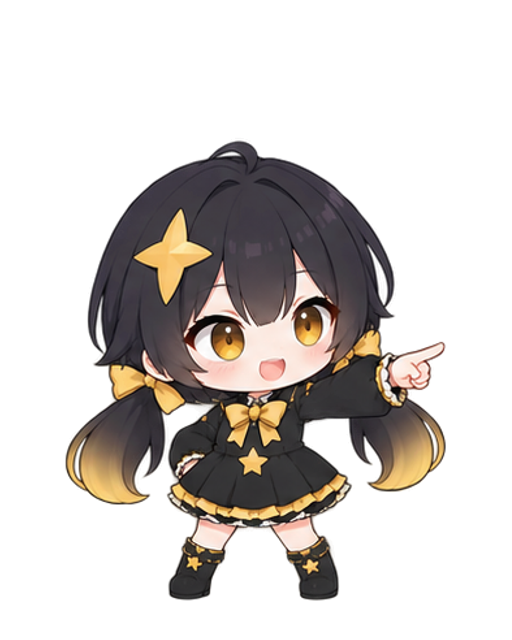
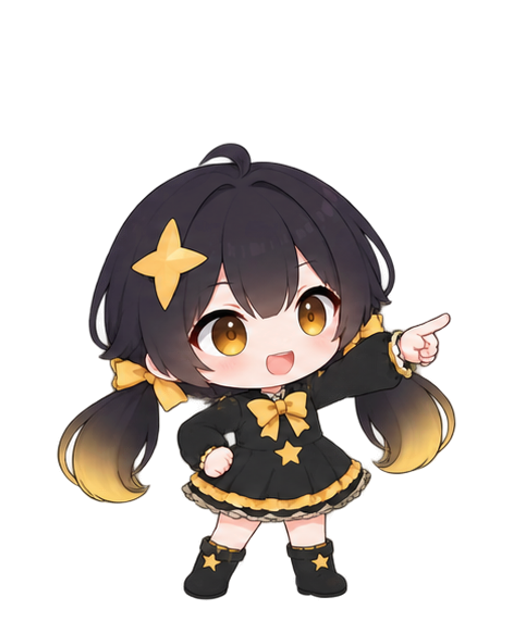
[claude] Star mascot: fix sheet 3 replaces the land, run-1, run-2 and point drawings
Replaced from the third redraw sheet: land (rounded fists instead of claw-like finger outlines), run-1 and run-2 (two tails instead of three pigtails, clean fists), point (both hands drawn and crisp). Kept: wave-a, wave-b, jump, think (the new versions have soft or smudged hand edges or no clear gain); the new 'cheer' drawing is not added. Same canvas rules (512 x 640, lowest pixel on y = 600); every other asset is byte-identical. Manifest, ASSETS.md and tests/test_mascot_assets.py updated: nothing is pending replacement any more.

Changed region(s): [[0.0938, 0.2812, 0.9062, 0.9375], [0.2188, 0.2188, 0.625, 0.375]]

diff --git a/tests/test_mascot_assets.py b/tests/test_mascot_assets.py
@@ -43,7 +43,9 @@ def test_manifest_lists_the_expected_drawings():
     assert count["forms"] == 8
     assert count["hero"] == 2
     assert count["pfp"] == 6
-    assert set(doc["to_be_replaced"]) == {"land", "run-1", "run-2"}
+    # fix sheet 3 replaced land, run-1, run-2 and point (docs/mascot/ASSETS.md): nothing is pending replacement any more
+    assert doc["to_be_replaced"] == []
+    assert set(doc["poses_from_fix_sheet_3"]) == {"land", "point", "run-1", "run-2"}
     for entry in doc["files"]:
         assert entry["in"], entry["file"]
         assert set(entry["in"]) <= set(doc["roots"])

diff --git a/docs/mascot/ASSETS.md b/docs/mascot/ASSETS.md
@@ -1,8 +1,8 @@
 # Star mascot: image assets
 
 Approved artwork for Star, the mascot of STAR Intelligence, in the form the website and the in-app Star pet load.
-The character itself is specified in [CHARACTER.md](CHARACTER.md); this page lists the files, the canvas rules and what
-is still pending replacement. The machine-readable list is [manifest.json](manifest.json) (file, group, source sheet and
+The character itself is specified in [CHARACTER.md](CHARACTER.md); this page lists the files, the canvas rules and which
+drawings were replaced by the third redraw sheet. The machine-readable list is [manifest.json](manifest.json) (file, group, source sheet and
 cell, size, bytes, notes); `tests/test_mascot_assets.py` checks it against the files.
 
 ## Where the files are
@@ -47,26 +47,40 @@ All files are 8-bit RGBA PNG with no metadata, transparent background, and none 
   horizontally by its bounding box (`head_center_x` in the manifest gives the head's x for animation code that wants to
   keep the head steady across frames, for example the four walk frames). The three source sheets were drawn at different
   scales (the cat / puppy sheet about 1.3 x larger), so each sheet has its own factor derived from the measured hair
-  width; poses use a scale of 1.3 (sheet 1) and 1.237 (sheet 2), forms 0.987. Heads therefore have the same size across
-  poses and forms. Native sprites are only about 350 px tall, so the files are enlarged by roughly 1.0 to 1.3 x.
+  width; poses use a scale of 1.3 (sheet 1) and 1.237 (sheet 2), forms 0.987, and the four poses taken from the third
+  redraw sheet 1.088 (its drawings are natively about 1.2 x larger; the factor also carries a 2 % calibration so that the
+  hair-top-to-chin height of the upright poses matches the other sheets). Heads therefore have the same size across poses
+  and forms. Native sprites are only about 350 px tall, so the files are enlarged by roughly 1.0 to 1.3 x.
 
-## Pending replacement
+## Fix sheet 3 (2026-10-12): what was replaced and what was kept
 
-Listed as `"status": "to be replaced"` in the manifest; the files are usable until their replacements arrive.
+Nothing is pending replacement any more (`"to_be_replaced": []` in the manifest; `"poses_from_fix_sheet_3"` lists the four
+new files). A third redraw sheet (8 full-body drawings in the pose-sheet costume, with rounded hands) was checked against
+the drawings it could replace, at the final size on a dark (#1b2a4a) and a light (#e9e9ee) background and enlarged around
+the hands. Only drawings that were at least as good in every respect were taken.
 
-| File | Reason |
-| --- | --- |
-| `poses/land.png` | hands on the knees have jagged, claw-like finger outlines |
-| `poses/run-1.png` | three pigtails and three ribbons (should be two), rust-smudged boots |
-| `poses/run-2.png` | three pigtails and three ribbons |
+| Pose | Result | Reason |
+| --- | --- | --- |
+| `land` | replaced | the knee hands had jagged, claw-like finger outlines; the new ones are rounded fists with soft finger scallops |
+| `run-1` | replaced | the old drawing had three pigtails and three ribbons and rust-smudged boots; the new one has two tails, clean fists and star boots |
+| `run-2` | replaced | the old drawing had three pigtails and three ribbons; the new one has two tails and clean fists |
+| `point` | replaced | pointing hand and the hand on the hip are both drawn and crisp (the old drawing hid the second hand) |
+| `wave-a`, `wave-b` | kept | the new wave drawing has a soft grey smudge beside the thumb of the raised hand |
+| `jump` | kept | the new drawing's raised hands have soft, feathered outer edges; the old ones are crisp |
+| `think` | kept | no clear gain: small gold specks on the sleeve, the dress star half hidden by the arm |
+| (new "cheer", arms out) | not added | it has no counterpart in the 24 poses and its raised hand has the same soft edge |
+
+All four new files use the same canvas rules as the others (512 x 640, lowest pixel on y = 600). One difference to know
+about: in the fix-sheet drawings the lace under the gold skirt frill reads tan instead of white, which is only visible
+when enlarged. The thin red fringe on the hair edges of the source sheet was
+invisible haze (alpha 1 to 7) and is cleared in the pipeline; no red or white rim remains on either background.
 
 Smaller known flaws (visible only when enlarged) are recorded as notes in the manifest: puppy-eyes (clasped hands cut by the
 source crop, now hidden by the bottom fade), love, ticked-off (near-black squiggle with almost no contrast on dark
 backgrounds), stand, look-a, look-b, wave-a, wave-b (thin, pointed hands), crouch (unexplained pink shape), jump, walk-1.
-A redraw of the full-body poses with the correct costume (a "fix sheet 3") is still to come; the first fix sheet's
-full-body redraws use the cat / puppy boots and a striped skirt, so they were not adopted. The two face redraws on that
-sheet (puppy-eyes, thinking) were also not adopted: they have a different expression (no tear, half-lidded eyes, no question
-mark) and are full-body drawings in the other costume.
+The first fix sheet's full-body redraws use the cat / puppy boots and a striped skirt, so they were not adopted. The two
+face redraws on that sheet (puppy-eyes, thinking) were also not adopted: they have a different expression (no tear,
+half-lidded eyes, no question mark) and are full-body drawings in the other costume.
 
 ## Provenance
 
